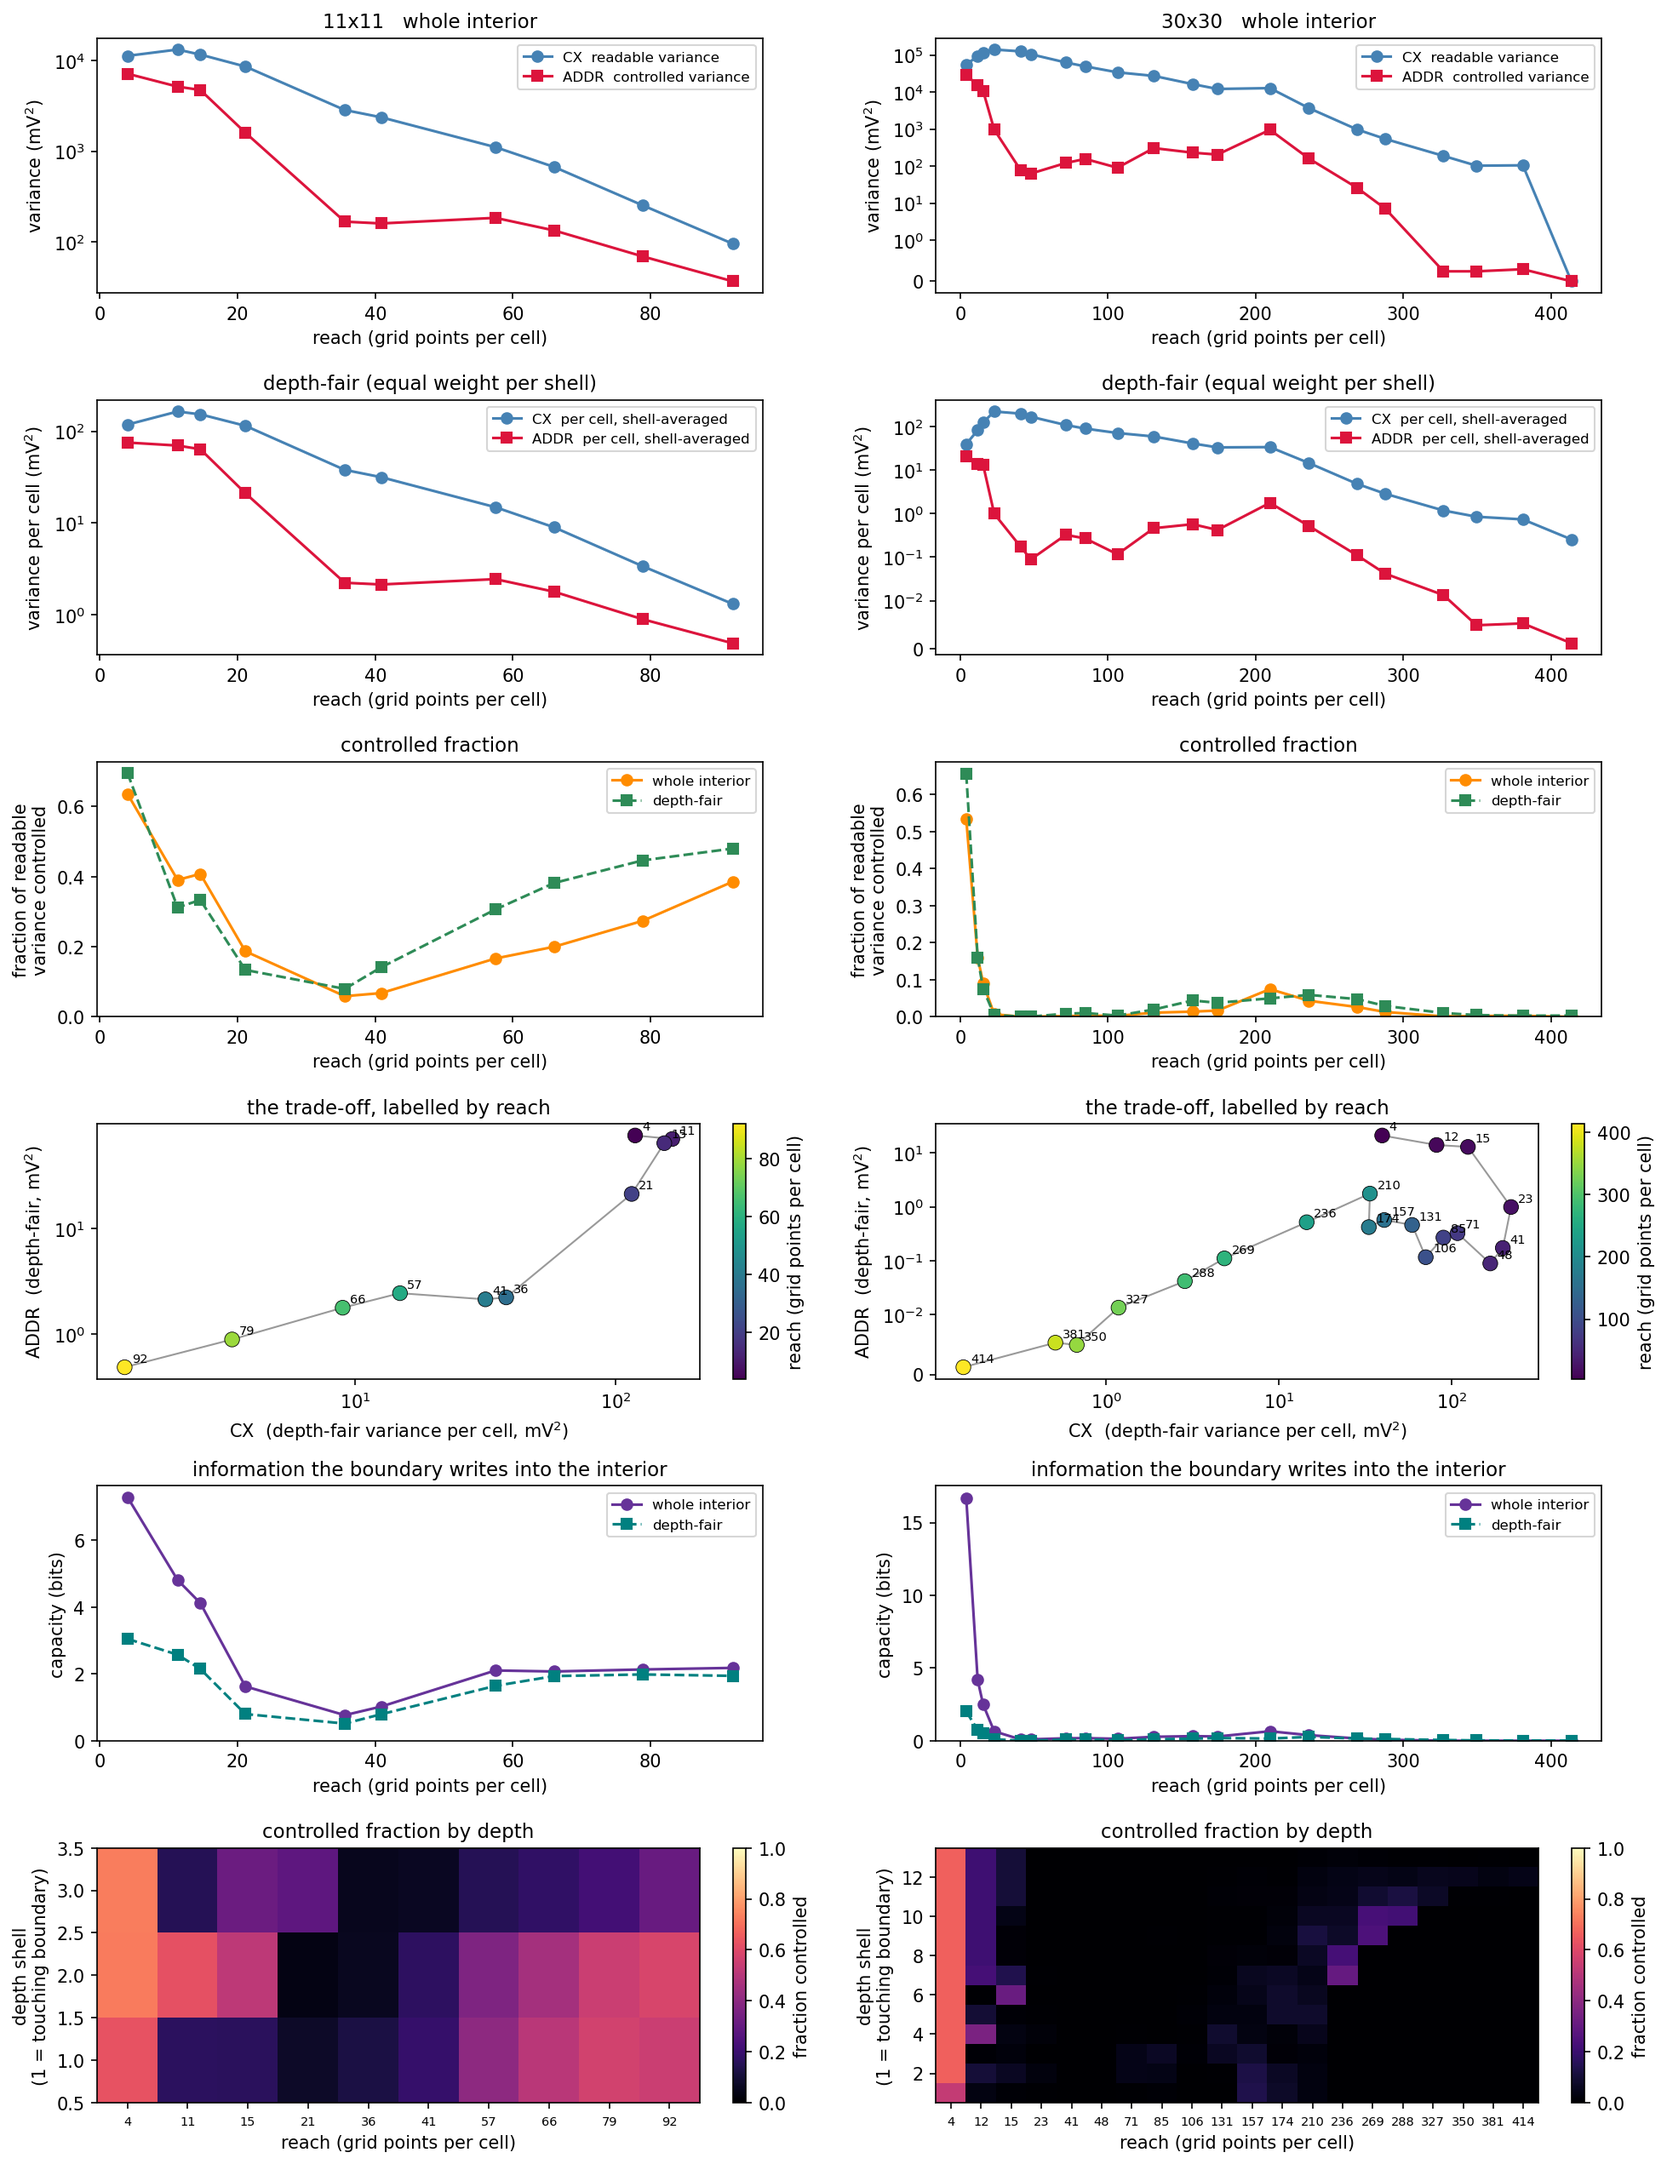
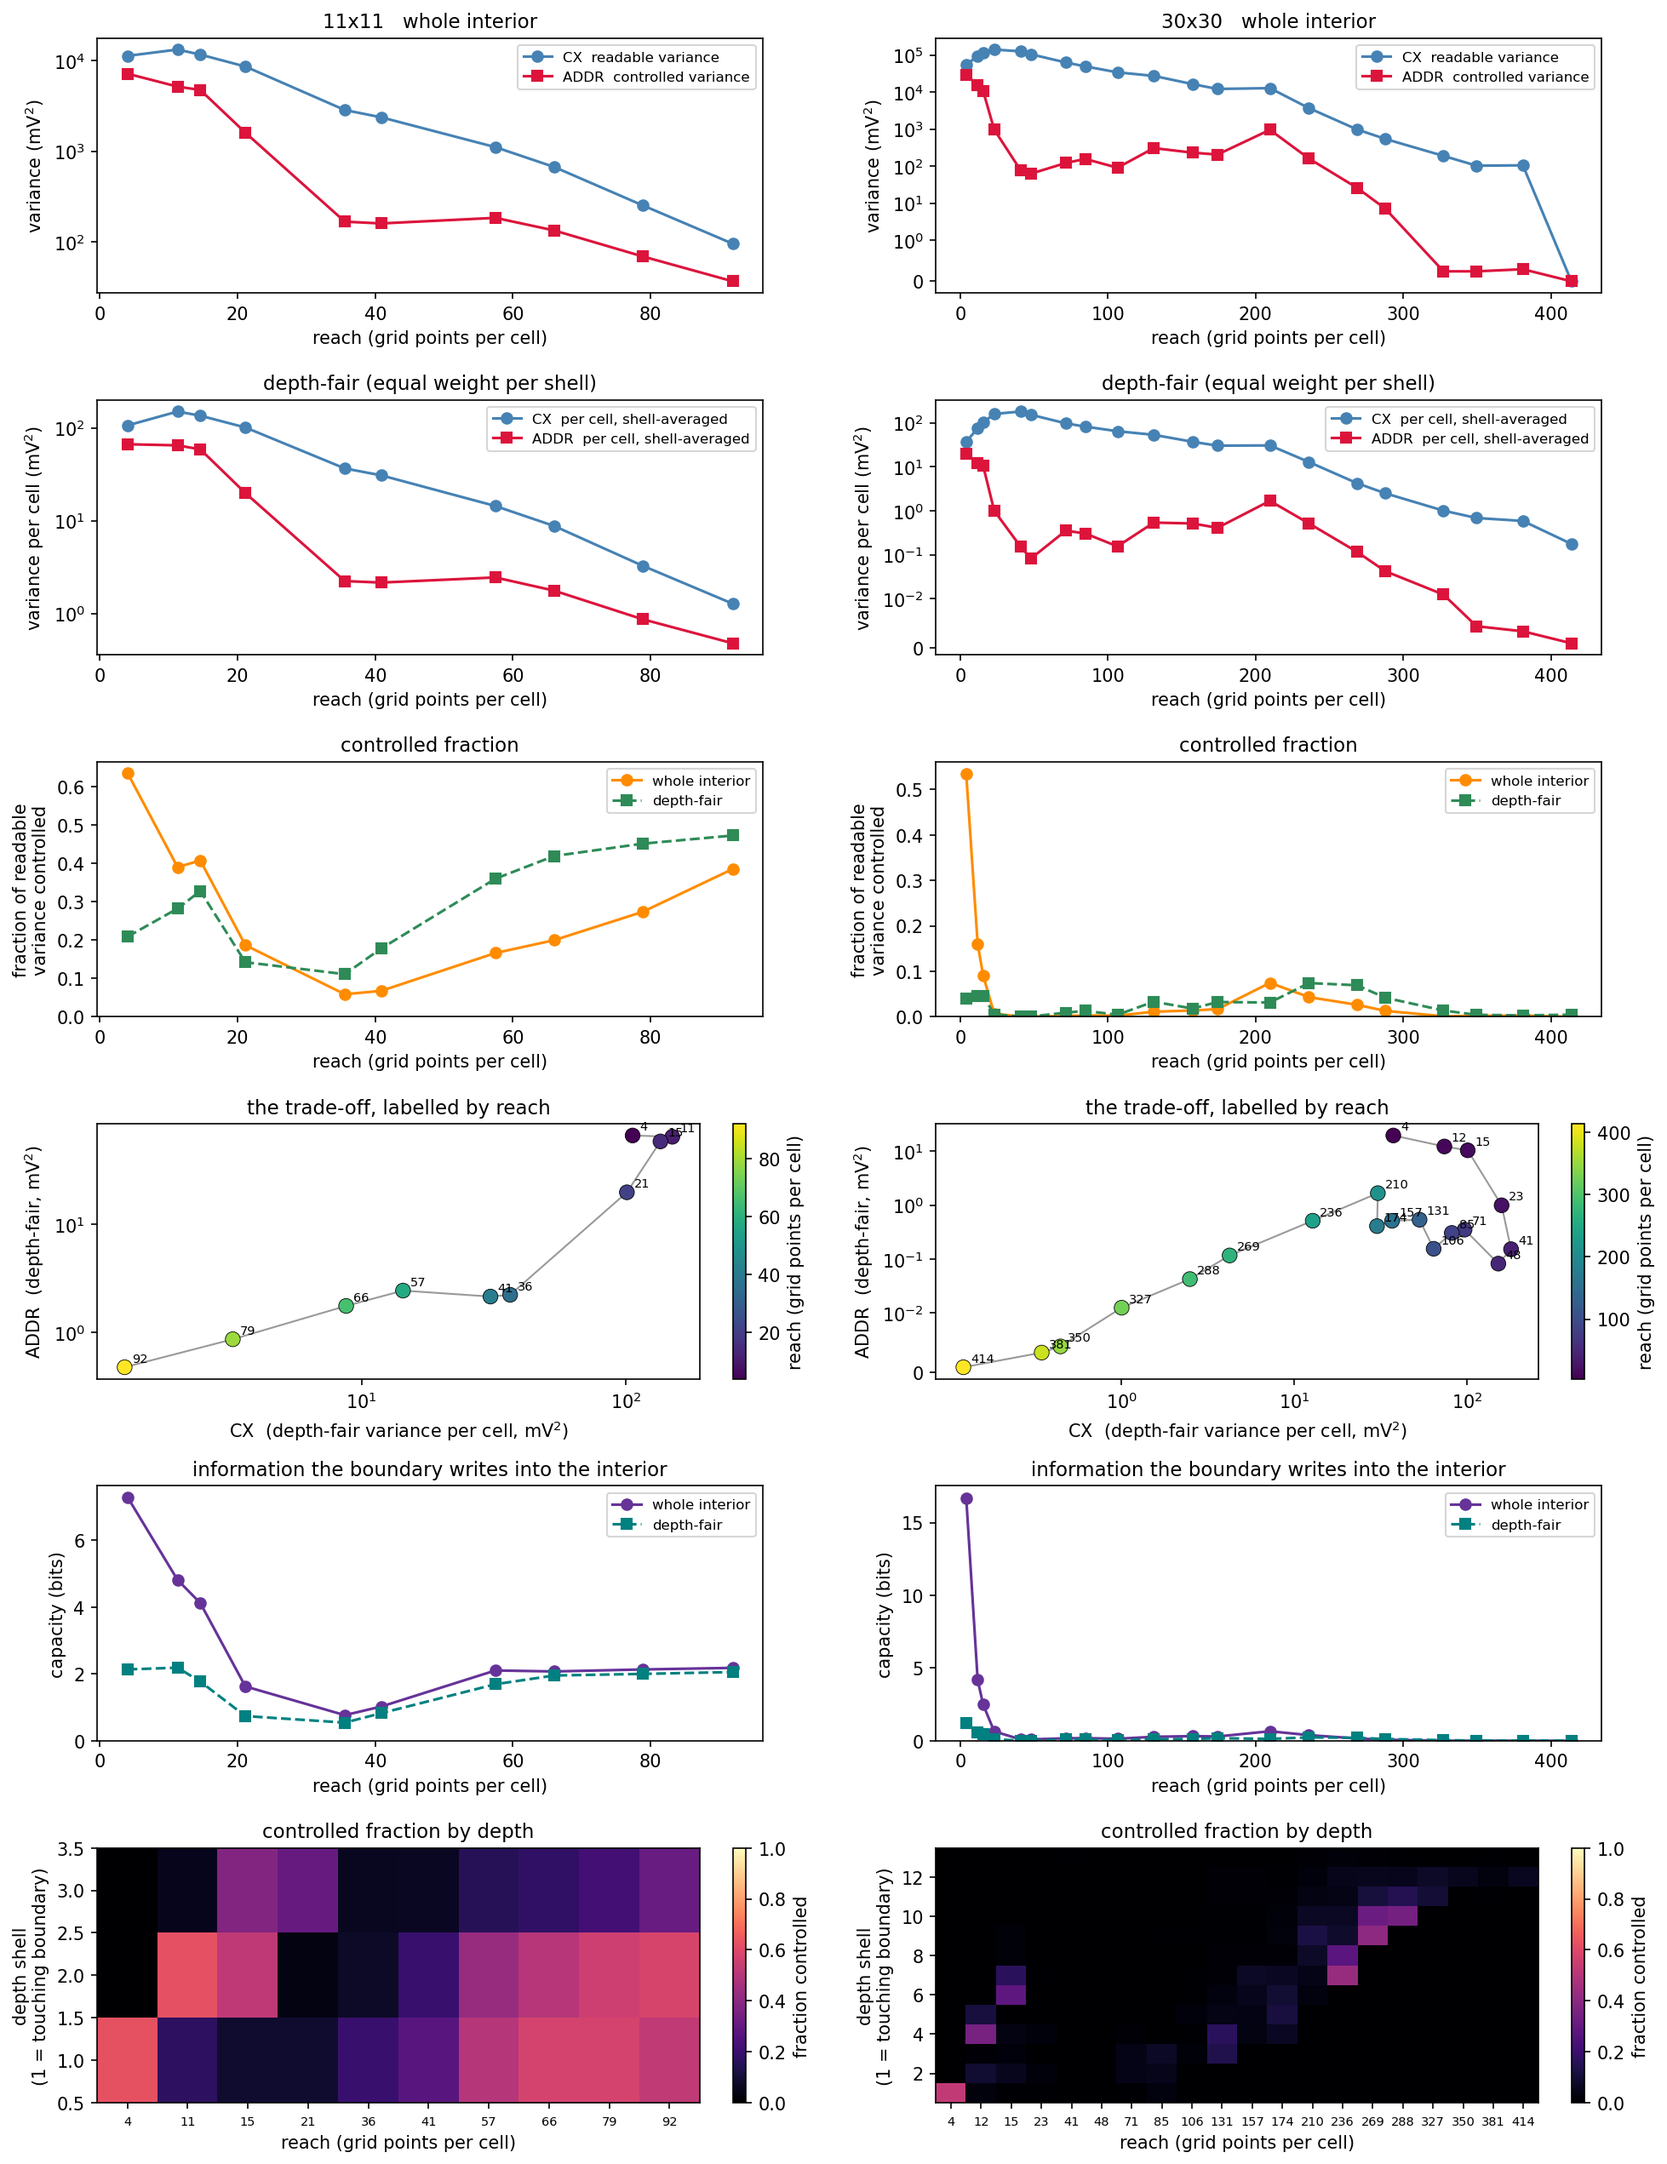
Centre each region on its own mean, not the whole interior's
Removing the interior-wide mean, added to stop a uniform voltage shift being counted as pattern,
manufactured a local uniform shift wherever it was applied to a sub-region. Subtracting a
per-sample constant from a region that does not vary at all turns it into a region that varies by
exactly that constant. At the shortest reach the shells beyond the second are flat to a nanovolt
and score zero on raw values, yet reported 8 to 50 mV^2 of complexity and a controlled fraction of
0.66 once the interior mean had been taken out of them.

That inflated the depth-fair aggregate specifically, which is the measure introduced so a tissue
patterning only its edge could not score as one patterning its bulk -- so the bug undermined the
metric built to prevent exactly this kind of error. Each region is now centred on its own spatial
mean inside metricsForRegion, and nothing is subtracted from the array beforehand.

With that corrected the depth profile is clean, and it explains a feature of the curves that had
looked like noise. Control does not fill inward from the boundary as reach grows; it migrates,
as a band, leaving the rim behind:

  reach    shell 1    shells 2-5    shell 9    shells 10-13
      4       0.53             0          0               0
    210          0             0       0.12       0.07-0.01
    269          0             0       0.41       0.32-0.01

Short reach controls the boundary shell and nothing else. Long reach controls a deep band and not
[…]

diff --git a/cx_addr_metrics.py b/cx_addr_metrics.py
@@ -112,6 +112,15 @@ def metricsForRegion(code, patterns, floor=FLOOR_MV, seed=0):
                  ADDR_perCell=0.0, ADDR_dims=0.0, ADDR_fraction=0.0, ADDR_bits=0.0)
     if patterns.shape[1] == 0 or patterns.std() == 0:
         return blank
+    # Centre each region on its OWN spatial mean. Subtracting a mean taken over some larger region
+    # adds a per-sample constant to every cell here, which turns a region that does not vary at all
+    # into one that varies by exactly that constant: at reach 4.0 the shells beyond the second are
+    # flat to a nanovolt and score zero on raw values, yet picked up 8 to 50 mV^2 and a controlled
+    # fraction of 0.66 when the interior-wide mean was removed from them. Removing a global uniform
+    # shift must not manufacture a local one.
+    patterns = patterns - patterns.mean(axis=1, keepdims=True)
+    if patterns.std() == 0:
+        return blank
     amplitude = crossValidatedAmplitude(patterns, seed=seed)
     if len(amplitude) == 0:
         return blank

diff --git a/evaluate_cx_addr_metrics.py b/evaluate_cx_addr_metrics.py
@@ -82,9 +82,9 @@ for r in ranges:
     # scores 19061 mV^2 and 4.98 bits. Removing each sample's interior-wide mean deletes exactly
     # that one degenerate mode. It is taken over the whole interior rather than per shell, so
     # radial structure -- shells genuinely sitting at different levels -- is preserved.
+    # The uniform level is reported as its own channel; each region is centred on its own mean
+    # inside metricsForRegion, so nothing is subtracted from the array here.
     uniformLevel = vmem[:, interior].mean(axis=1)
-    if not args.keepUniformShift:
-        vmem = vmem - uniformLevel[:, None]
     levelBits = float(-0.5 * np.log2(1 - np.clip(
         M.crossValidatedR2(code, uniformLevel)[0], 0.0, 0.999)))
     record = dict(M.metricsForRegion(code, vmem[:, interior], floor=args.floor))
